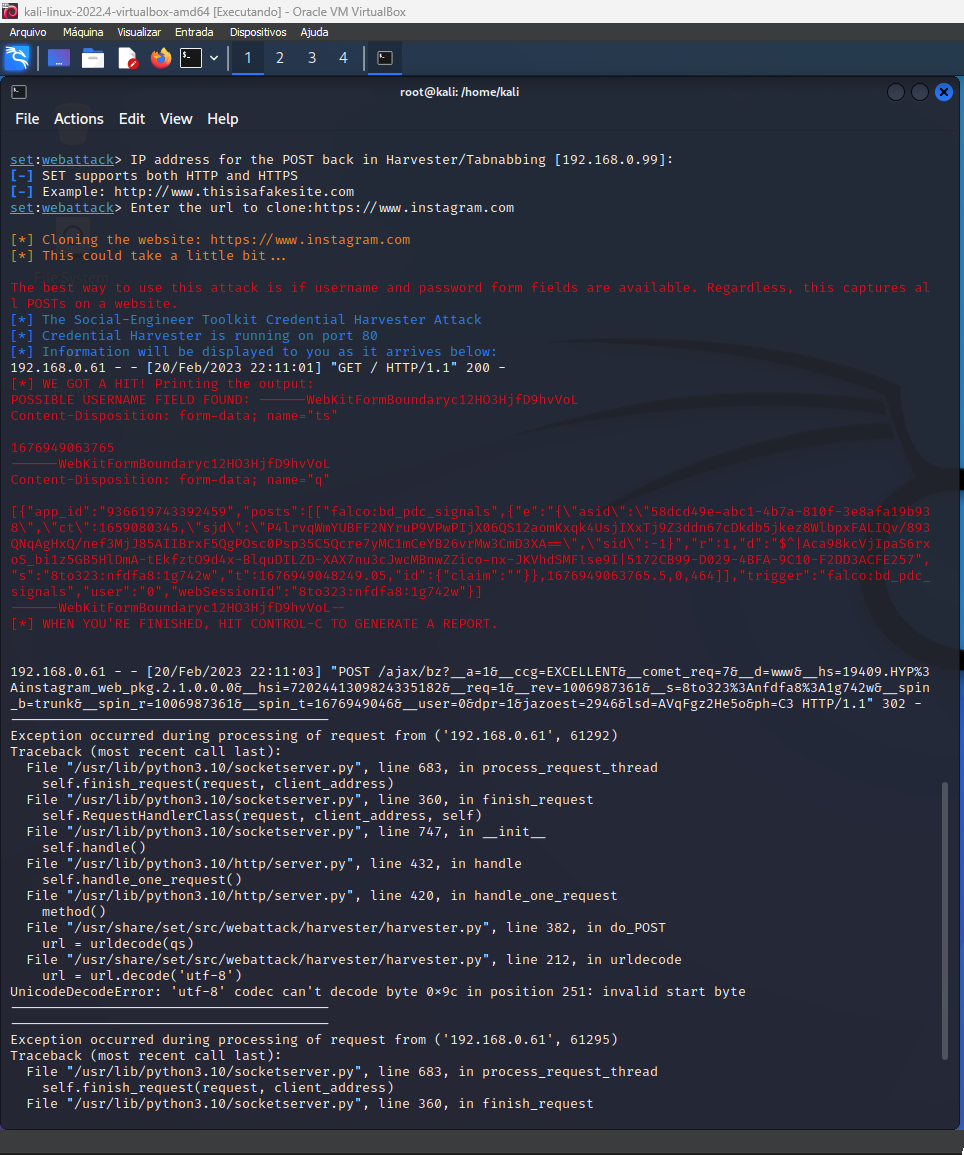
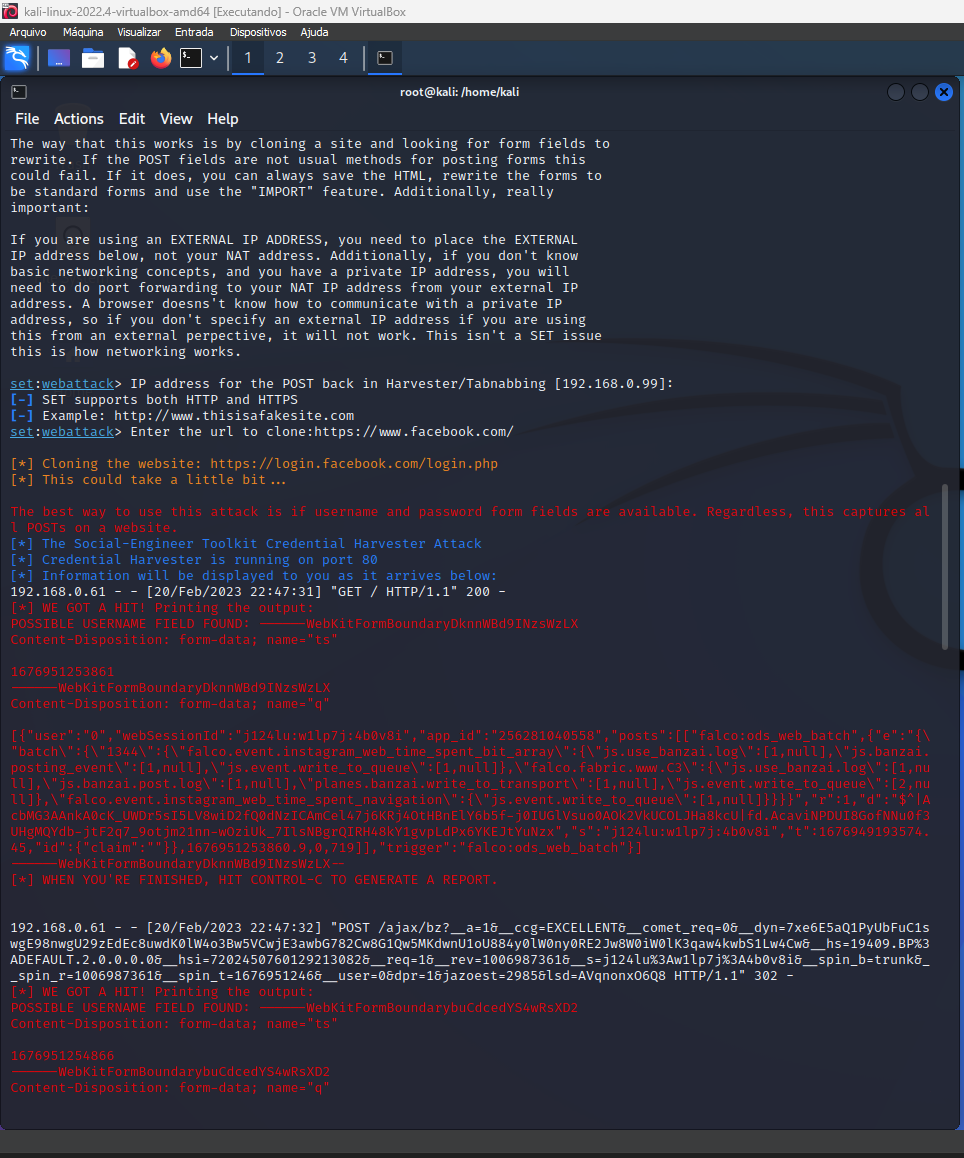
up Rm

diff --git a/README.md b/README.md
@@ -59,4 +59,8 @@ Site Cloner
  ifconfig 
  ```
 
+ ![image](https://raw.githubusercontent.com/Thur17/desafio-cibersecurity-phishing/master/Img/05.png)
+
 - URL para clone: <http://www.facebook.com>
+
+![image](https://raw.githubusercontent.com/Thur17/desafio-cibersecurity-phishing/master/Img/06.png)
